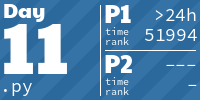
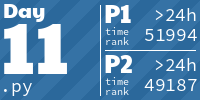
Day 11, part 2 - 2022
Lifted trick from subreddit

Changed region(s): [[0.72, 0.78, 0.99, 0.93], [0.78, 0.57, 0.99, 0.72]]

diff --git a/ibidem/advent_of_code/y2022/dec11.py b/ibidem/advent_of_code/y2022/dec11.py
@@ -1,4 +1,6 @@
 #!/usr/bin/env python
+import logging
+import math
 import re
 import typing
 
@@ -67,23 +69,22 @@ class Monkey:
             elif m := FALSE_PAT.match(line):
                 self.false_target = int(m.group(1))
 
-    def inspect(self, worry_level_managed):
+    def inspect(self, worry_level_adjustment):
         while self.items:
             item = self.items.pop(0)
-            print(f"  Monkey inspects an item with a worry level of {item}.")
+            logging.debug(f"  Monkey inspects an item with a worry level of {item}.")
             item = self.operation(item)
-            print(f"    Worry level {self.operation.__doc__} to {item}.")
-            if worry_level_managed:
-                item = item // 3
-                print(f"    Monkey gets bored with item. Worry level is divided by 3 to {item}.")
+            logging.debug(f"    Worry level {self.operation.__doc__} to {item}.")
+            item = worry_level_adjustment(item)
+            logging.debug(f"    Monkey gets bored with item. Worry level is adjusted to {item}.")
             divisible = item % self.test_divisor == 0
             if divisible:
-                print(f"    Current worry level is divisible by {self.test_divisor}.")
+                logging.debug(f"    Current worry level is divisible by {self.test_divisor}.")
                 target = self.true_target
             else:
-                print(f"    Current worry level is not divisible by {self.test_divisor}.")
+                logging.debug(f"    Current worry level is not divisible by {self.test_divisor}.")
                 target = self.false_target
-            print(f"    Item with worry level 26 is thrown to monkey {target}.")
+            logging.debug(f"    Item with worry level 26 is thrown to monkey {target}.")
             self.inspected += 1
             yield item, target
 
@@ -96,23 +97,25 @@ def load(fobj):
     return monkeys
 
 
-def play_monkey_round(monkeys, worry_level_managed):
+def play_monkey_round(monkeys, worry_level_adjustment):
     for monkey in monkeys:
-        print(f"Monkey {monkey.index}:")
-        for item, target in monkey.inspect(worry_level_managed):
+        logging.debug(f"Monkey {monkey.index}:")
+        for item, target in monkey.inspect(worry_level_adjustment):
             monkeys[target].items.append(item)
 
 
 def part1(monkeys):
     for _ in range(20):
-        play_monkey_round(monkeys, worry_level_managed=True)
+        play_monkey_round(monkeys, worry_level_adjustment=lambda item: item // 3)
     most_active = list(sorted((m.inspected for m in monkeys), reverse=True))
     return most_active[0] * most_active[1]
 
 
 def part2(monkeys):
+    logging.basicConfig(level=logging.INFO)
+    multiplier = math.prod((m.test_divisor for m in monkeys))
     for _ in alive_progress.alive_it(range(10000), total=10000):
-        play_monkey_round(monkeys, worry_level_managed=False)
+        play_monkey_round(monkeys, worry_level_adjustment=lambda item: item % multiplier)
     most_active = list(sorted((m.inspected for m in monkeys), reverse=True))
     return most_active[0] * most_active[1]
 

diff --git a/ibidem/advent_of_code/y2022/test/test_dec11.py b/ibidem/advent_of_code/y2022/test/test_dec11.py
@@ -58,7 +58,6 @@ class TestDec11():
         result = part1(loaded)
         assert result == PART1_RESULT
 
-    @pytest.mark.skip(reason="Too much worry")
     def test_part2(self, loaded):
         result = part2(loaded)
         assert result == PART2_RESULT
@@ -76,7 +75,7 @@ class TestDec11():
 
     def test_play_monkey_round(self, loaded):
         monkeys = loaded
-        play_monkey_round(monkeys, worry_level_managed=True)
+        play_monkey_round(monkeys, worry_level_adjustment=lambda item: item // 3)
         assert monkeys[0].items == [20, 23, 27, 26]
         assert monkeys[1].items == [2080, 25, 167, 207, 401, 1046]
         assert monkeys[2].items == []
